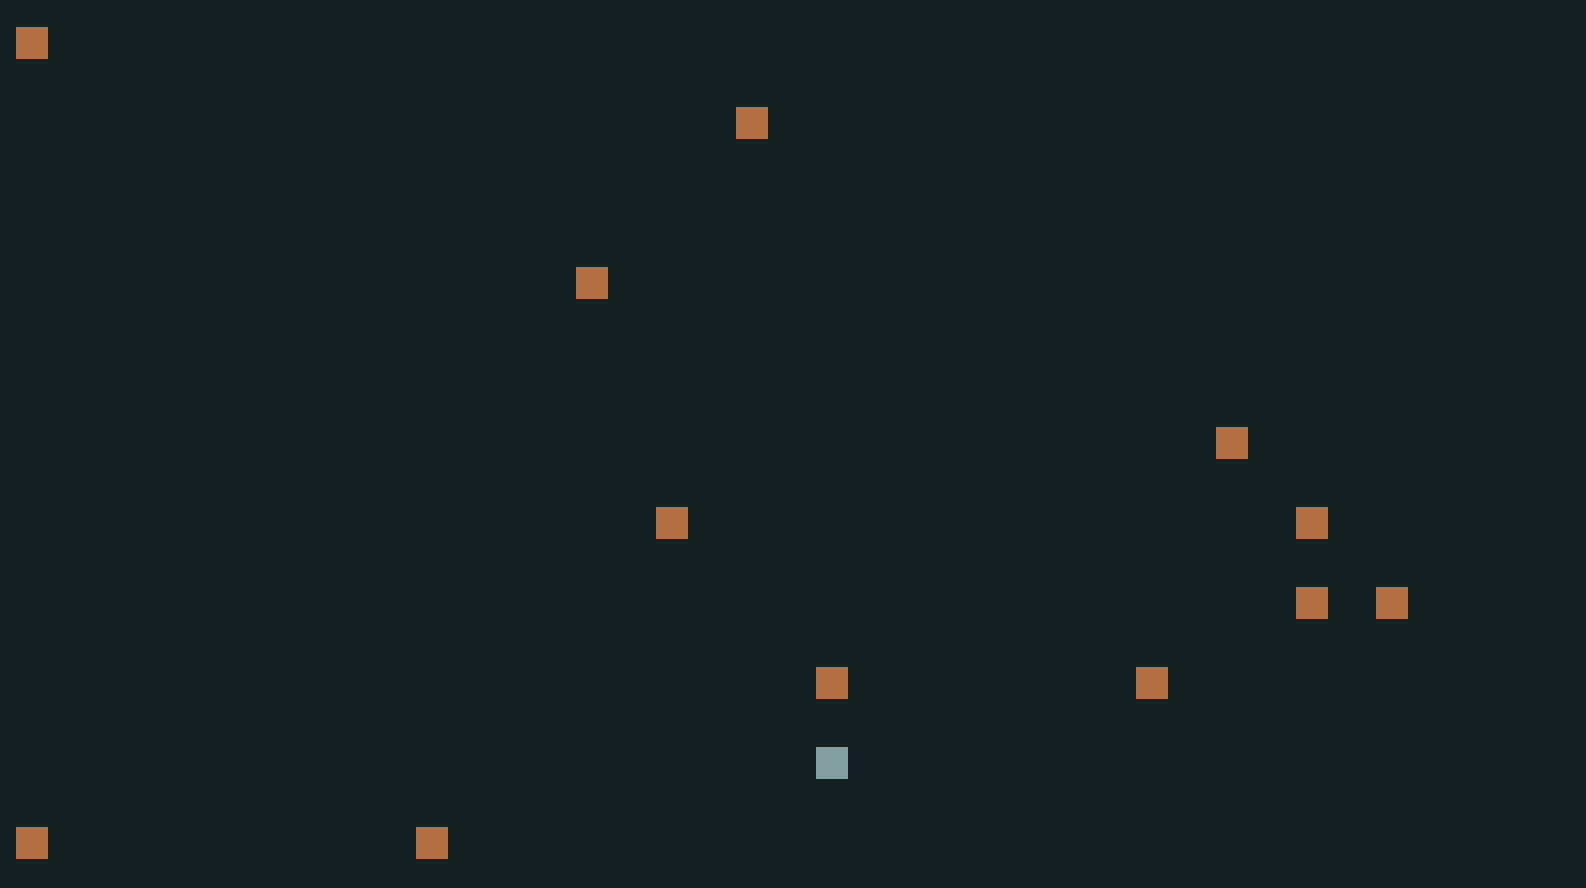
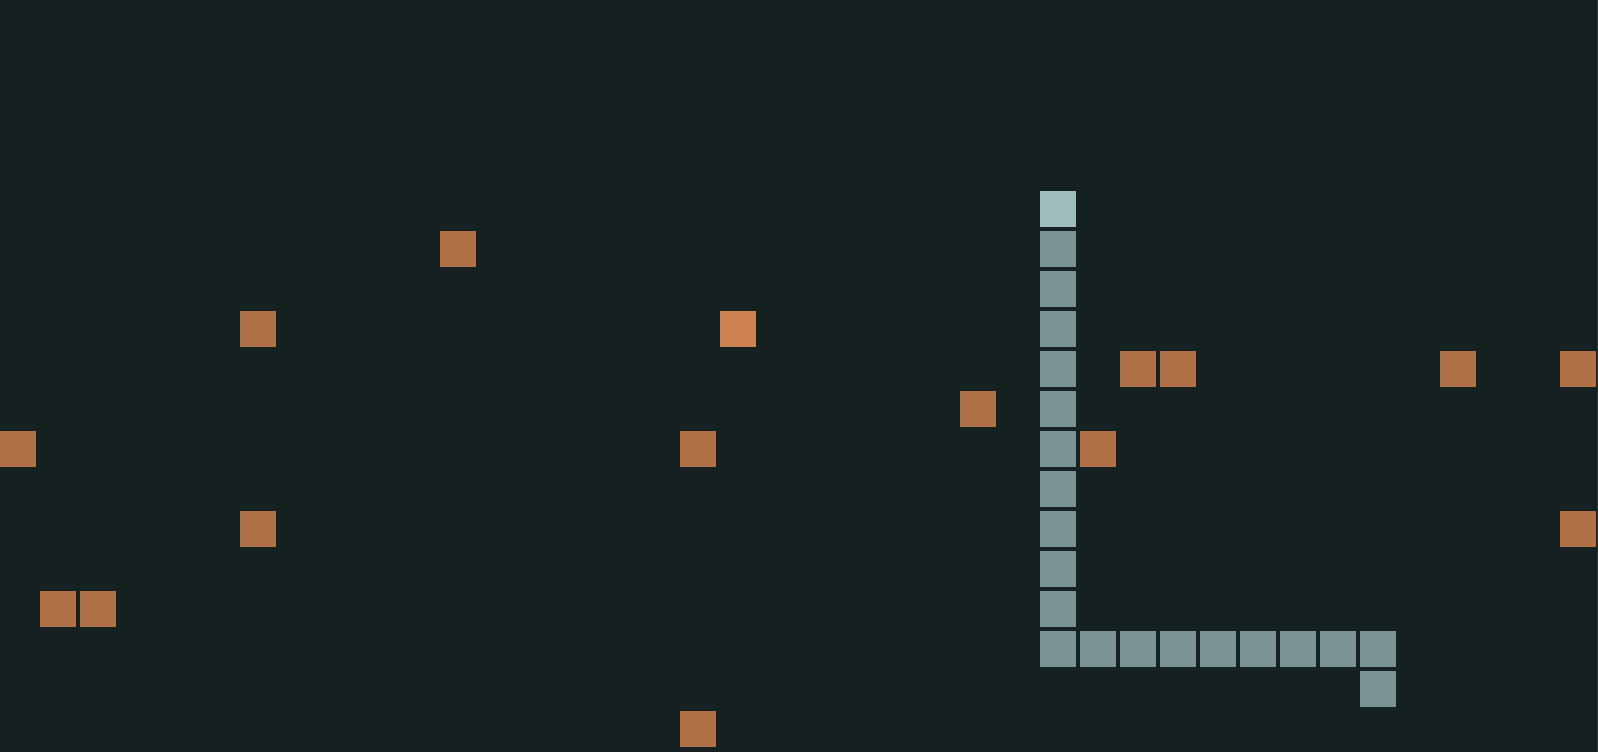
added snake growth

diff --git a/src/main.rs b/src/main.rs
@@ -69,6 +69,9 @@ struct SnakeSegment;
 #[derive(Default, Deref, DerefMut)]
 struct SnakeSegments(Vec<Entity>);
 
+#[derive(Default)]
+struct LastTailPosition(Option<Position>);
+
 fn spawn_snake(mut commands: Commands, mut segments: ResMut<SnakeSegments>) {
     *segments = SnakeSegments(vec![
         commands
@@ -156,7 +159,8 @@ fn snake_movement_input(
 fn snake_movement(
     segments: ResMut<SnakeSegments>,
     mut heads: Query<(Entity, &SnakeHead)>,
-    mut positions: Query<&mut Position>
+    mut positions: Query<&mut Position>,
+    mut last_tail_position: ResMut<LastTailPosition>
 ) {
     if let Some((head_entity, head)) = heads.iter_mut().next() {
         let segment_positions = segments
@@ -184,6 +188,36 @@ fn snake_movement(
             .for_each(|(pos, segment)| {
                 *positions.get_mut(*segment).unwrap() = *pos;
             });
+        *last_tail_position = LastTailPosition(Some(*segment_positions.last().unwrap()));
+    }
+}
+
+struct GrowthEvent;
+
+fn snake_eating(
+    mut commands: Commands,
+    mut growth_writer: EventWriter<GrowthEvent>,
+    food_positions: Query<(Entity, &Position), With<Food>>,
+    head_positions: Query<&Position, With<SnakeHead>>
+) {
+    for head_pos in head_positions.iter() {
+        for (ent, food_pos) in food_positions.iter() {
+            if food_pos == head_pos {
+                commands.entity(ent).despawn();
+                growth_writer.send(GrowthEvent);
+            }
+        }
+    }
+}
+
+fn snake_growth(
+    commands: Commands,
+    last_tail_position: Res<LastTailPosition>,
+    mut segments: ResMut<SnakeSegments>,
+    mut growth_reader: EventReader<GrowthEvent>
+) {
+    if growth_reader.iter().next().is_some() {
+        segments.push(spawn_segment(commands, last_tail_position.0.unwrap()));
     }
 }
 
@@ -217,6 +251,7 @@ fn main() {
         })
         .insert_resource(ClearColor(BACKGROUND_COLOR))
         .insert_resource(SnakeSegments::default())
+        .insert_resource(LastTailPosition::default())
         .add_startup_system(setup_camera)
         .add_startup_system(spawn_snake)
         .add_system(snake_movement_input.before(snake_movement))
@@ -229,7 +264,9 @@ fn main() {
         .add_system_set(
             SystemSet::new()
                 .with_run_criteria(FixedTimestep::step(0.200))
-                .with_system(snake_movement),
+                .with_system(snake_movement)
+                .with_system(snake_eating.after(snake_movement))
+                .with_system(snake_growth.after(snake_eating)),
         )
         .add_system_set(
             SystemSet::new()
@@ -237,5 +274,6 @@ fn main() {
                 .with_system(food_spawner),
         )
         .add_plugins(DefaultPlugins)
+        .add_event::<GrowthEvent>()
         .run();
 }
